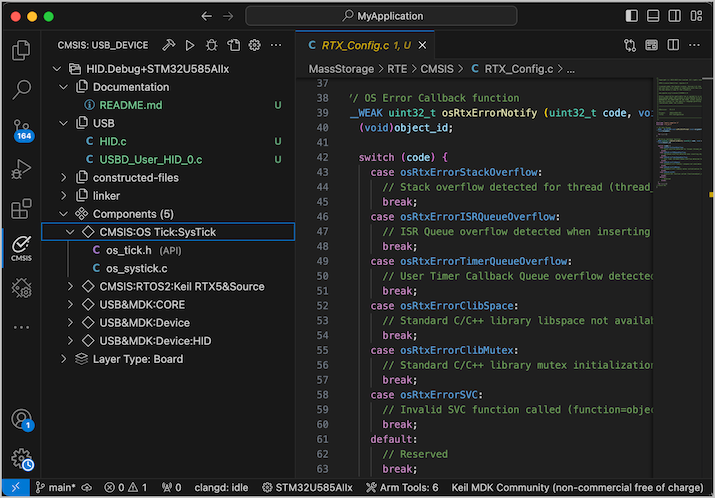
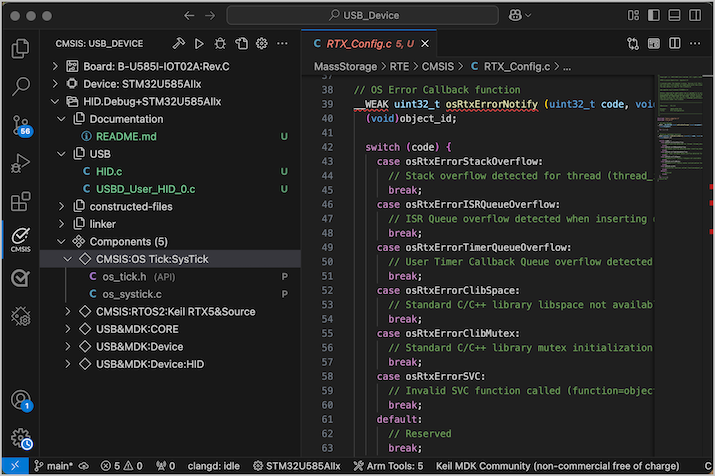
Update file(s) from Arm-Debug/vscode-cmsis-csolution

diff --git a/docs/third-party-licenses.html b/docs/third-party-licenses.html
@@ -1527,7 +1527,7 @@ CONNECTION WITH THE SOFTWARE OR THE USE OR OTHER DEALINGS IN THE SOFTWARE.
 </pre>
         <h2><a name="primereact">primereact</a></strong></h2>
         <p><strong>License:</strong> <a href="https://spdx.org/licenses/MIT.html">MIT</a></p>
-        <p><strong>Version:</strong> 10.8.4</p>
+        <p><strong>Version:</strong> 10.8.5</p>
         <p class="source"><strong>Source:</strong> <a href="https://github.com/primefaces/primereact">https://github.com/primefaces/primereact</a></p>
         <pre class="license">The MIT License (MIT)
 

diff --git a/README.md b/README.md
@@ -1,6 +1,6 @@
 # Arm CMSIS Solution
 
-The Arm® CMSIS Solution extension is a graphical user interface for csolution projects that use the [CMSIS-Toolbox](https://github.com/Open-CMSIS-Pack/cmsis-toolbox/blob/main/docs/README.md). It supports microcontroller devices that incorporate Arm Cortex®-M processors and Arm Ethos®-U Neural Processing Units (NPUs), and works with various C/C++ compilers and debuggers. 
+The Arm® CMSIS Solution extension is a graphical user interface for csolution projects that use the [CMSIS-Toolbox](https://open-cmsis-pack.github.io/cmsis-toolbox/). The extension supports microcontroller devices that incorporate Arm Cortex®-M processors and Arm Ethos®-U Neural Processing Units (NPUs), and works with various C/C++ compilers and debuggers. 
 
 This extension is [free to use](https://marketplace.visualstudio.com/items/Arm.cmsis-csolution/license) and you can install it individually or as part of the [Arm Keil® Studio Pack](https://marketplace.visualstudio.com/items?itemName=Arm.keil-studio-pack).
 
@@ -31,13 +31,13 @@ Arm CMSIS Solution interfaces with the following [debug](#run-and-debug) extensi
 
 ![CMSIS view](https://github.com/ARM-software/vscode-cmsis-csolution/raw/main/docs/images/CMSIS_View.png)
 
-The **CMSIS** view gives you access to the source code of your application. The **CMSIS** view shows the [multiple projects](https://github.com/Open-CMSIS-Pack/cmsis-toolbox/blob/main/docs/build-overview.md#project-setup-for-related-projects) that belong to the context set. The various elements available for a project are:
+The **CMSIS** view gives you access to the source code of your application. The **CMSIS** view shows the [multiple projects](https://open-cmsis-pack.github.io/cmsis-toolbox/build-overview/#project-setup-for-related-projects) that belong to the context set. The various elements available for a project are:
 
-- [File groups](https://github.com/Open-CMSIS-Pack/cmsis-toolbox/blob/main/docs/YML-Input-Format.md#groups): Groups used to organize user source code.
-- [Constructed-files](https://github.com/Open-CMSIS-Pack/cmsis-toolbox/blob/main/docs/build-overview.md#rte_componentsh): Files generated for the CMSIS Run-Time Environment (RTE).
-- [Linker](https://github.com/Open-CMSIS-Pack/cmsis-toolbox/blob/main/docs/build-overview.md#linker-script-management): Script files used in the project context.
-- [Components](https://github.com/Open-CMSIS-Pack/cmsis-toolbox/blob/main/docs/CreateApplications.md#software-component): Reusable software modules that you select.
-- [Layers](https://github.com/Open-CMSIS-Pack/cmsis-toolbox/blob/main/docs/build-overview.md#software-layers): Sets of source files, software components, and configuration files that you can reuse in different projects.
+- [File groups](https://open-cmsis-pack.github.io/cmsis-toolbox/YML-Input-Format/#groups): Groups used to organize user source code.
+- [Constructed-files](https://open-cmsis-pack.github.io/cmsis-toolbox/build-overview/#rte_componentsh): Files generated for the CMSIS Run-Time Environment (RTE).
+- [Linker](https://open-cmsis-pack.github.io/cmsis-toolbox/build-overview/#linker-script-management): Script files used in the project context.
+- [Components](https://open-cmsis-pack.github.io/cmsis-toolbox/CreateApplications/#software-components): Reusable software modules that you select.
+- [Layers](https://open-cmsis-pack.github.io/cmsis-toolbox/build-overview/#software-layers): Sets of source files, software components, and configuration files that you can reuse in different projects.
 
 Action buttons allow you to build, run, and debug your application or open the views that are described in detail below. For components, you can access the documentation or run generators such as STM32CubeMX or the MCUXpresso Config Tools.
 
@@ -50,7 +50,7 @@ Create a new csolution project and choose the target type name, solution name, a
 To start a new csolution project, select a [board](https://www.keil.arm.com/boards/) or [device](https://www.keil.arm.com/devices/). You can choose from the following project types:
 
 - Templates: Templates are stub projects providing a minimal setup for the selected use case.
-- [Reference applications](https://github.com/Open-CMSIS-Pack/cmsis-toolbox/blob/main/docs/ReferenceApplications.md): Reference applications are hardware-agnostic and require additional software layers with API drivers for the target board selected.
+- [Reference applications](https://open-cmsis-pack.github.io/cmsis-toolbox/ReferenceApplications/): Reference applications are hardware-agnostic and require additional software layers with API drivers for the target board selected.
 - CMSIS solution examples: These examples are created for a specific hardware or evaluation board and interface with board and device peripherals.
 - µVision examples: Example projects created for the µVision IDE. Arm CMSIS Solution automatically converts µVision projects to the csolution project format.
 
@@ -72,7 +72,7 @@ Select reusable software components for your application from this view.
 
 ![ManageSolution](https://github.com/ARM-software/vscode-cmsis-csolution/raw/main/docs/images/ManageSolution.png)
 
-Select a [context set](https://github.com/Open-CMSIS-Pack/cmsis-toolbox/blob/main/docs/build-overview.md#working-with-context-set) from this view. For a given target type, a context set combines related projects which you can build for an application. You might need to use different build types for projects, for example in cases where not all parts of an application require extra debug overhead.
+Select a [context set](https://open-cmsis-pack.github.io/cmsis-toolbox/build-overview/#working-with-context-set) from this view. For a given target type, a context set combines related projects which you can build for an application. You might need to use different build types for projects, for example in cases where not all parts of an application require extra debug overhead.
 
 ## Run and Debug
 

diff --git a/CHANGELOG.md b/CHANGELOG.md
@@ -2,6 +2,26 @@
 
 ## [Unreleased]
 
+## 1.48.0
+
+- New features:
+
+  - The **CMSIS View** shows the board and device for the active target.
+  - The **CMSIS View** provides access to documentation for the board, device, and components.
+  - The **Views and More Actions...** menu available from the **CMSIS View** has now a **Help** entry. Click **Help** to open the CMSIS Solution documentation.
+  - The context help in the editor has been enhanced for *csolution project files*. Documentation links are provided when you move your mouse over the different elements.
+
+- Solved issues:
+
+  - The **Create Solution** view now presents the correct templates from packs.
+  - [A full list of resolved issues is available on GitHub.](https://github.com/orgs/ARM-software/projects/10/views/8)
+
+- Known issues:
+
+  - The layers and templates displayed in the **Create Solution** view are only taken from installed CMSIS software packs.
+  - Software components from layers of inactive target types incorrectly display in the **Software Components** view in addition to the ones from the active target type.
+  - When installing a local software pack with `cpackget`, (a) an [incorrect empty \<timestamp\> is created](https://github.com/Open-CMSIS-Pack/cpackget/issues/421), and (b) the [pack index is downloaded](https://github.com/Open-CMSIS-Pack/cpackget/issues/404).
+   
 ## 1.46.0
 
 - New features:

diff --git a/docs/third-party-licenses.md b/docs/third-party-licenses.md
@@ -1,6 +1,6 @@
 ## TPIP Report for vscode-cmsis-csolution
 
-Report prepared at : 2024-12-17 13:8:47
+Report prepared at : 2024-12-18 12:36:26
 
 | *Package* | *Version* | *Repository* | *License* |
 |---|---|---|---|
@@ -21,7 +21,7 @@ Report prepared at : 2024-12-17 13:8:47
 |lodash.debounce|4.0.8|https://github.com/lodash/lodash|[MIT](https://github.com/lodash/lodash/blob/master/LICENSE)|
 |node-fetch|3.3.2|https://github.com/node-fetch/node-fetch|[MIT](https://github.com/node-fetch/node-fetch/blob/master/LICENSE.md)|
 |path-browserify|1.0.1|https://github.com/browserify/path-browserify|[MIT](https://github.com/browserify/path-browserify/blob/master/LICENSE)|
-|primereact|10.8.4|https://github.com/primefaces/primereact|[MIT](https://github.com/primefaces/primereact/blob/master/LICENSE.md)|
+|primereact|10.8.5|https://github.com/primefaces/primereact|[MIT](https://github.com/primefaces/primereact/blob/master/LICENSE.md)|
 |react|18.3.1|https://github.com/facebook/react|[MIT](https://github.com/facebook/react/blob/main/LICENSE)|
 |react-dom|18.3.1|https://github.com/facebook/react|[MIT](https://github.com/facebook/react/blob/main/LICENSE)|
 |react-window|1.8.10|https://github.com/bvaughn/react-window|[MIT](https://github.com/bvaughn/react-window/blob/master/LICENSE.md)|
